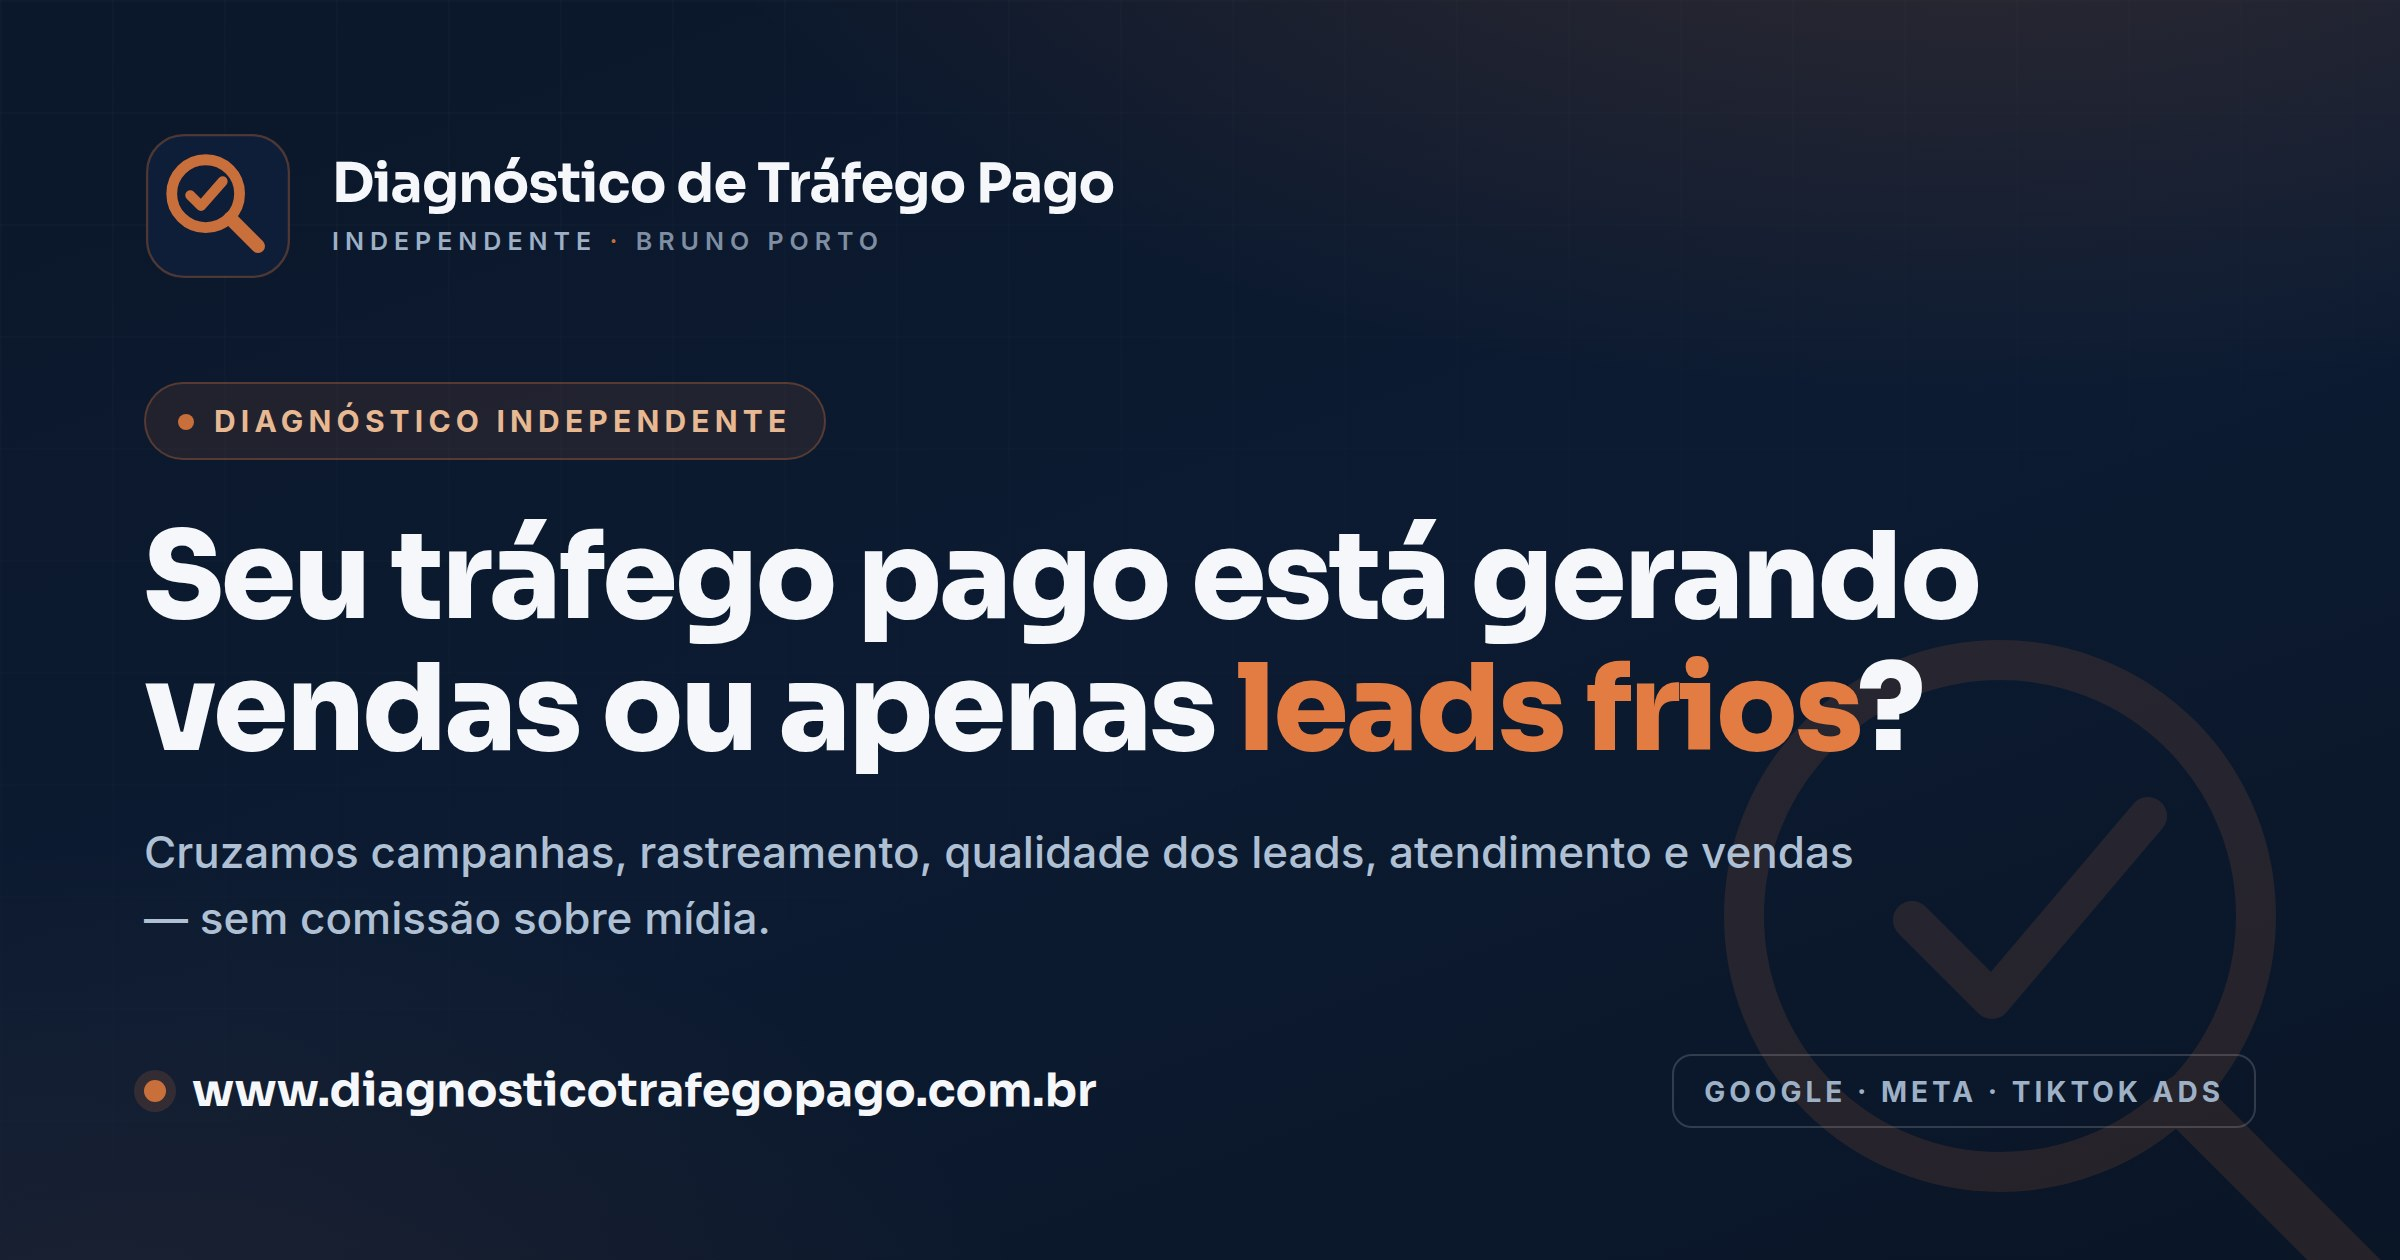
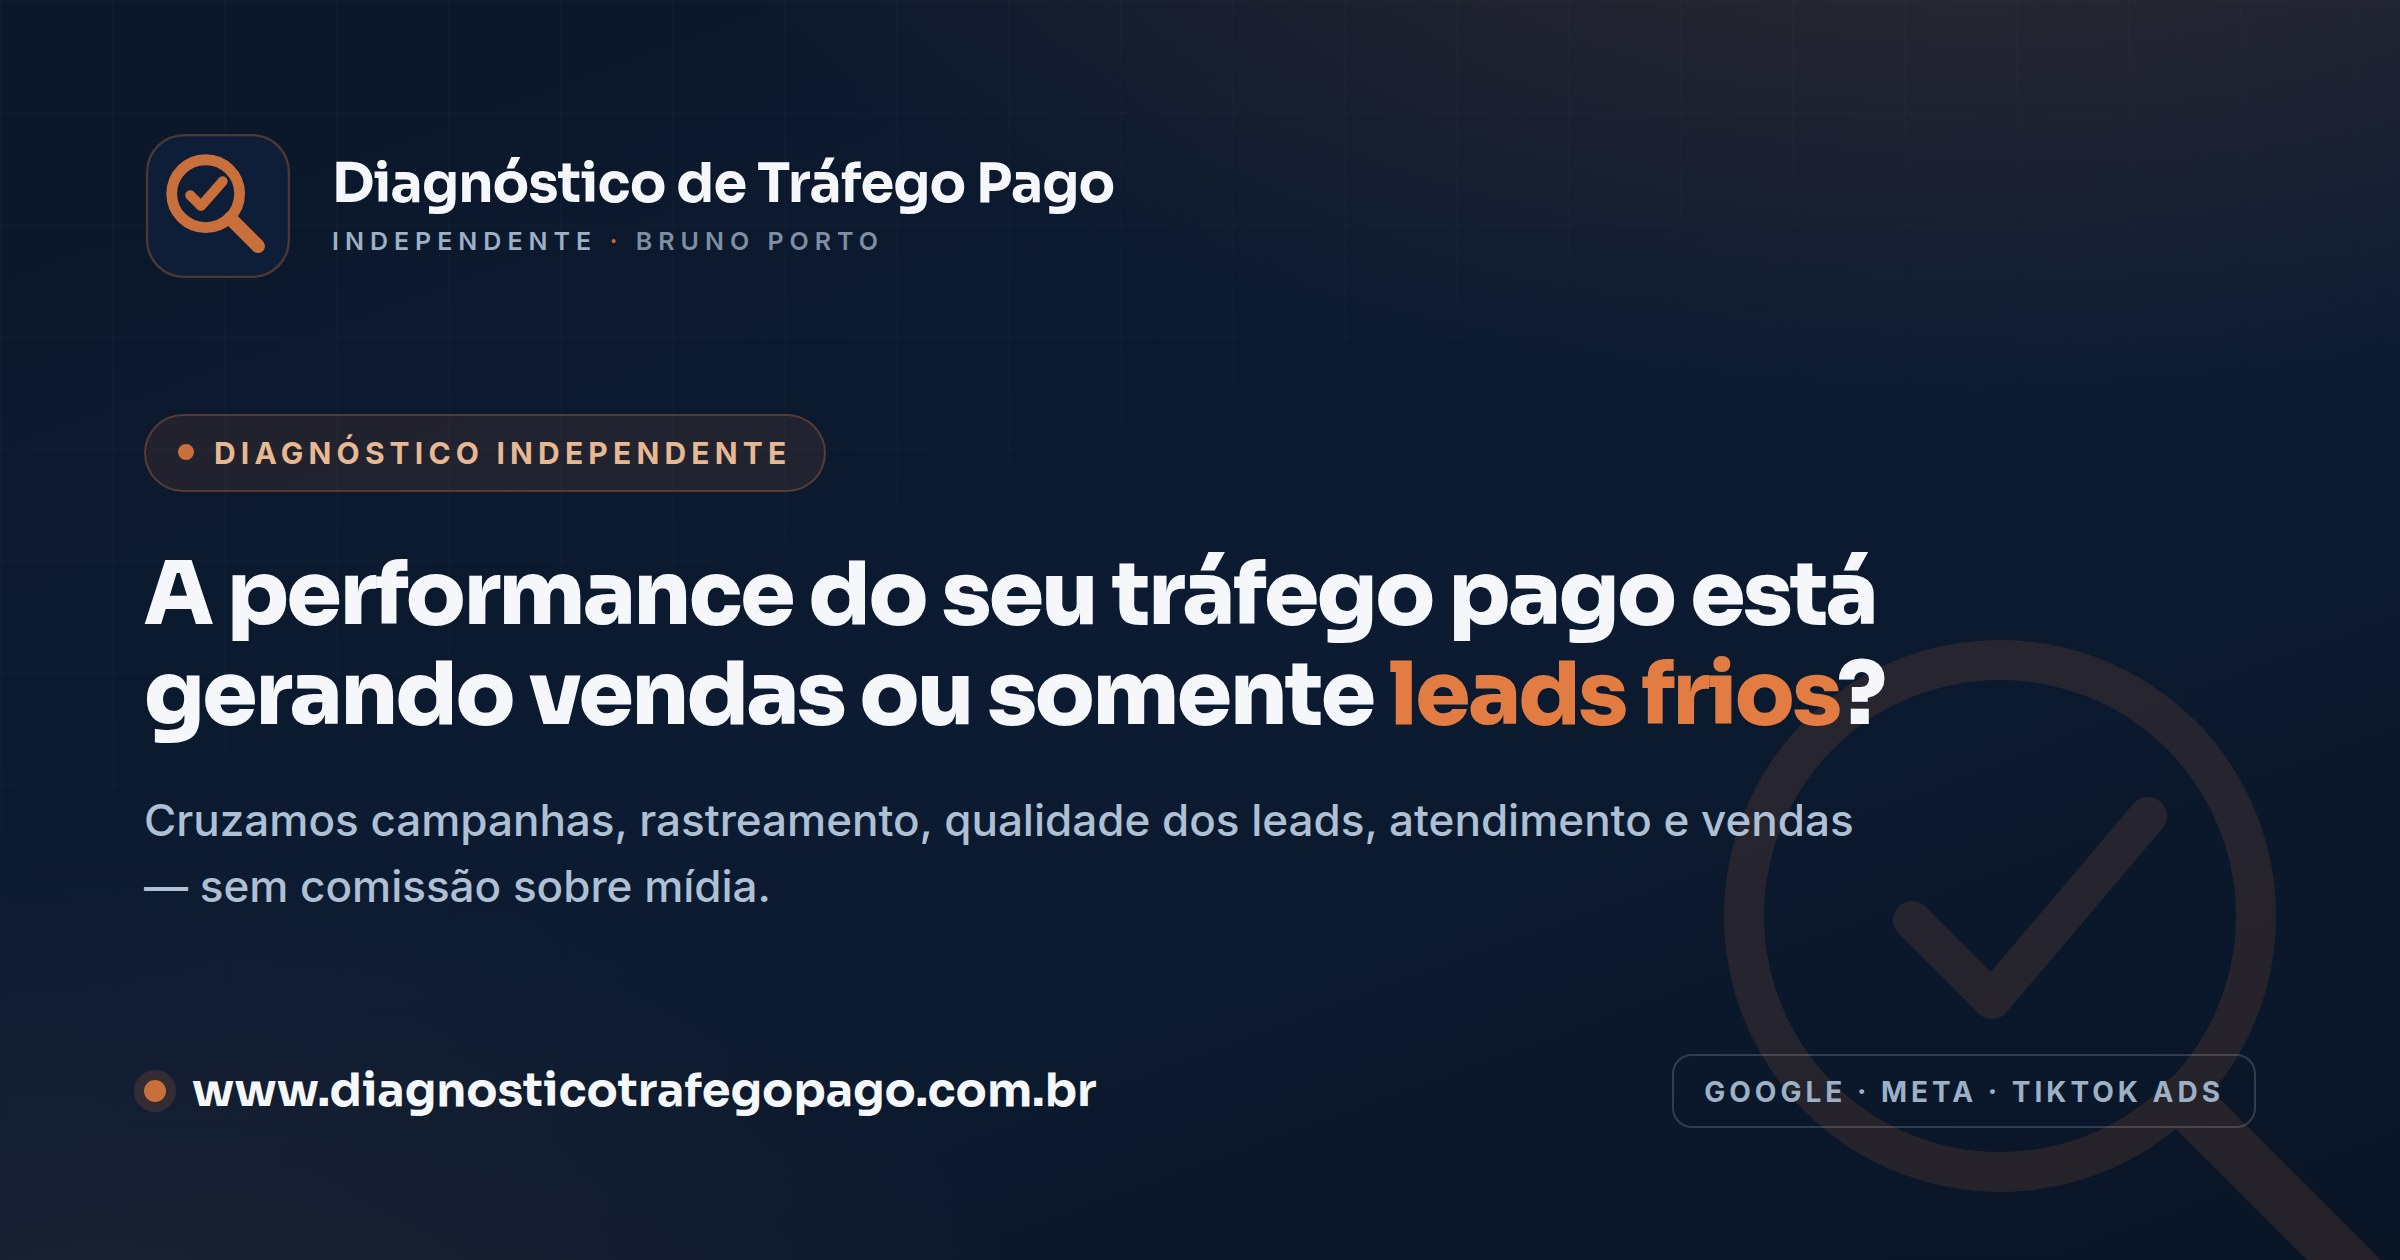
Auditoria: link para soubrunoporto.com.br na seção Sobre + OG card sincronizado
- Adiciona no bloco "Sobre Bruno Porto" um link externo para
  https://soubrunoporto.com.br/ ("Conheça a trajetória completa de Bruno
  Porto"), com rel="noopener".
- Regenera og-card.jpg com a nova headline do hero ("A performance do seu
  tráfego pago...").

Claude-Session: https://claude.ai/code/session_016sAVJ4CYjFn366RZWKj1D9

Changed region(s): [[0.0625, 0.4024, 0.8438, 0.7429], [0.0625, 0.3095, 0.3438, 0.4024]]

diff --git a/auditoria-trafego-pago/index.html b/auditoria-trafego-pago/index.html
@@ -1485,6 +1485,8 @@
         <p>Bruno Porto é profissional de marketing, vendas e gestão, com <strong>mais de 30 anos de experiência em negócios</strong> e mais de duas décadas de atuação no ambiente digital.</p>
         <p>Sua experiência permite analisar o tráfego além das plataformas, considerando a qualidade das oportunidades, o atendimento, a conversão e o impacto do investimento sobre o negócio.</p>
         <p>Bruno utiliza ferramentas avançadas de análise de dados e inteligência artificial para ampliar a capacidade de investigação. A <strong>validação das informações, o diagnóstico e as recomendações permanecem sob sua responsabilidade profissional</strong>.</p>
+        <p><a href="https://soubrunoporto.com.br/" target="_blank" rel="noopener" style="display:inline-flex;align-items:center;gap:.4rem;color:var(--copper-btn);font-weight:600;text-decoration:none;border-bottom:2px solid var(--copper-soft);padding-bottom:1px;">Conheça a trajetória completa de Bruno Porto
+          <svg viewBox="0 0 24 24" width="16" height="16" fill="none" stroke="currentColor" stroke-width="2.4" stroke-linecap="round" stroke-linejoin="round" aria-hidden="true"><path d="M7 17 17 7"/><path d="M8 7h9v9"/></svg></a></p>
         <div class="about-sign">
           <div>
             <div class="n">Bruno Porto Seus</div>
